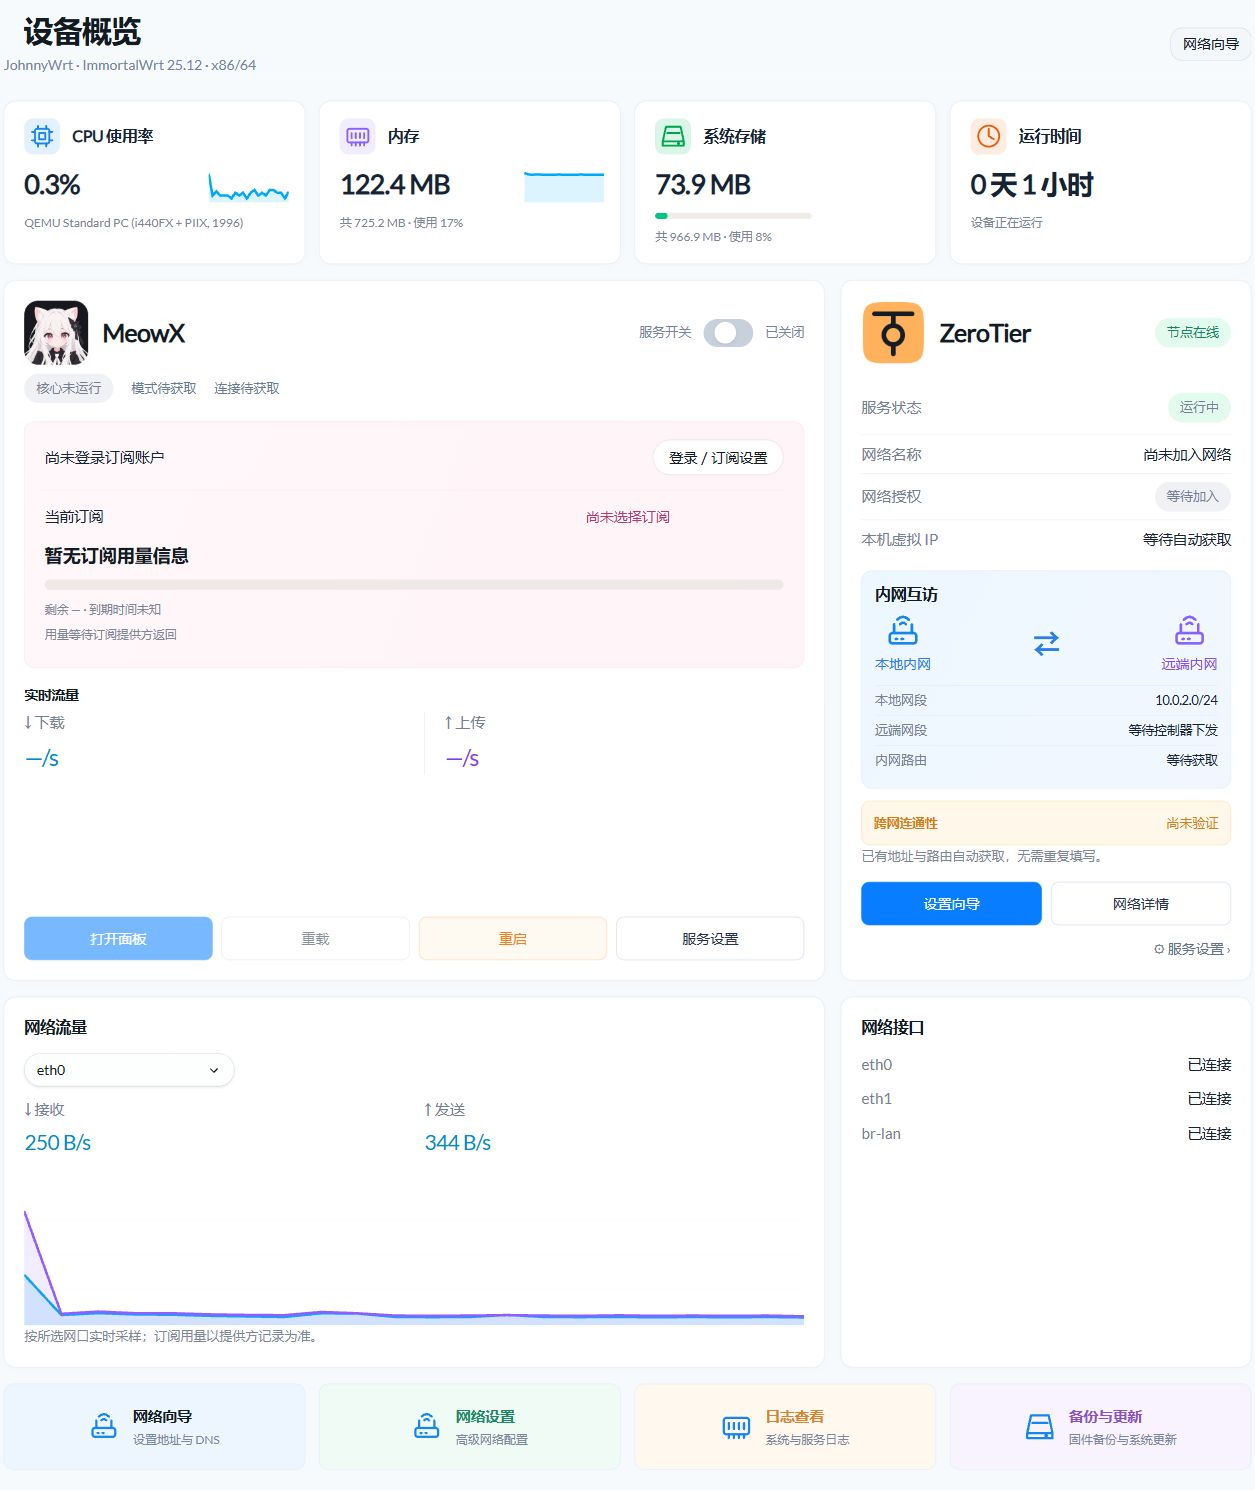
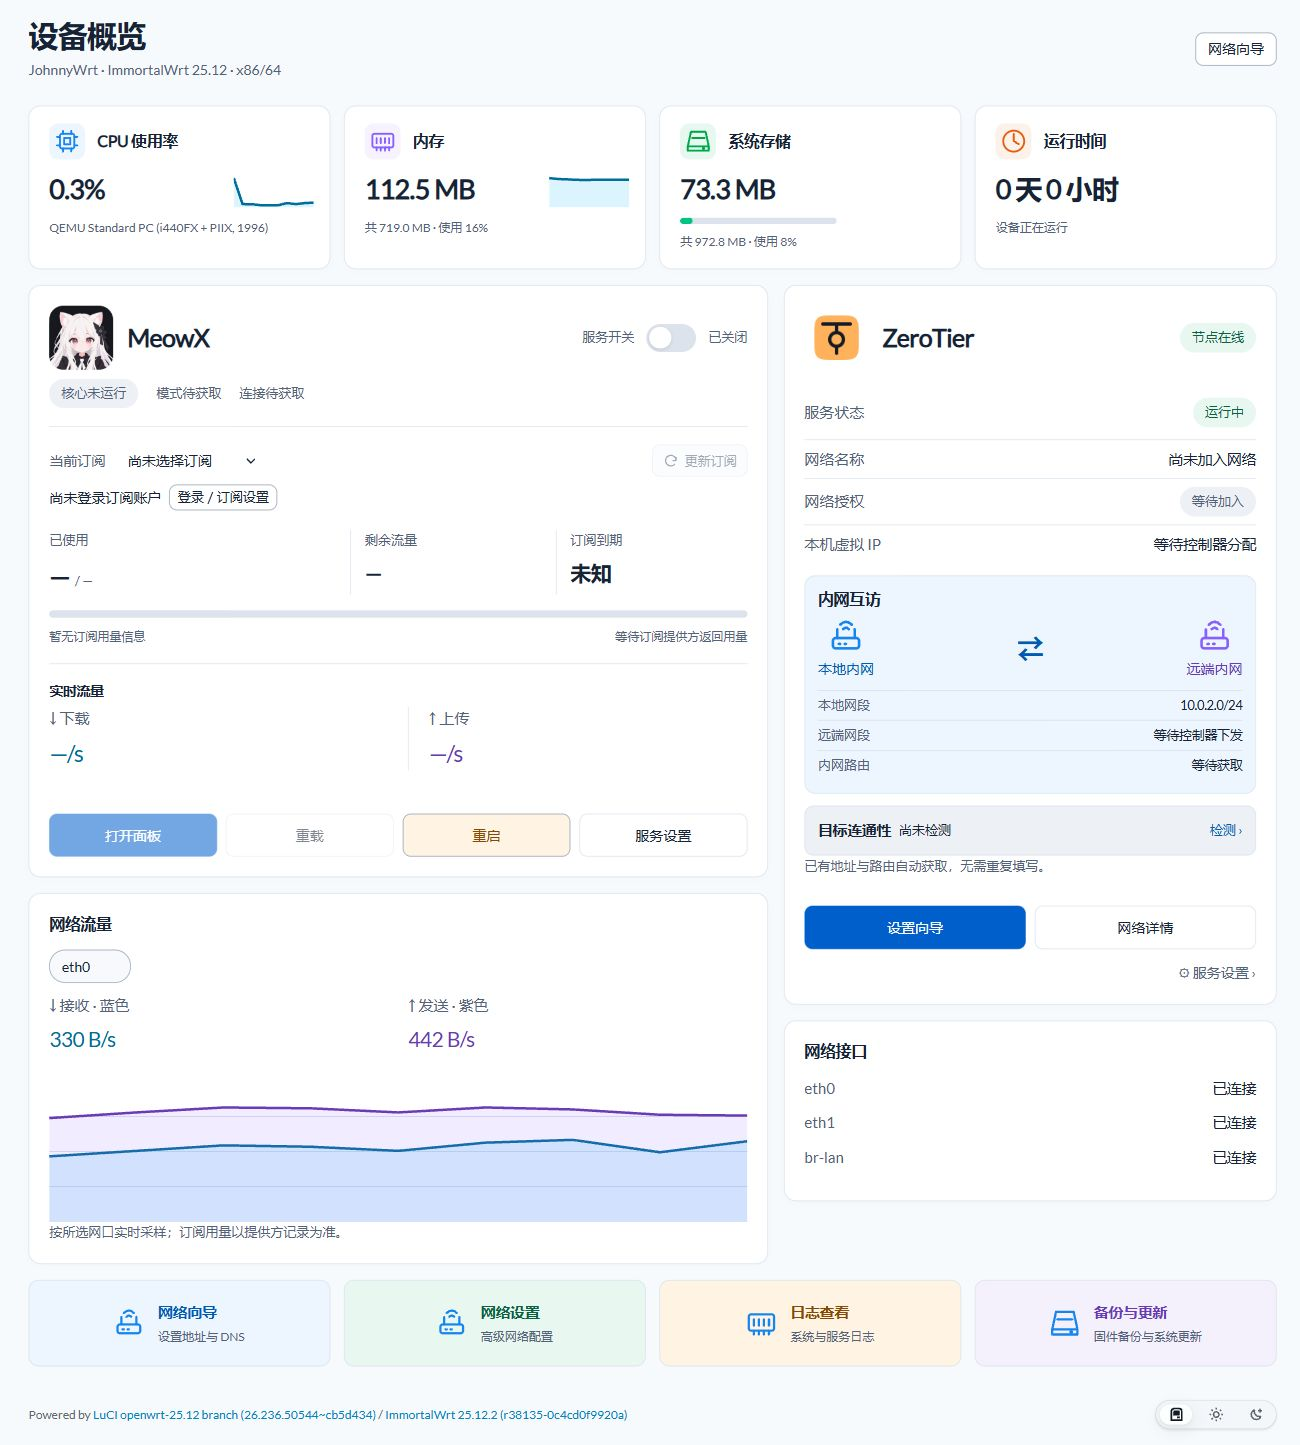
docs: refresh repository overview and release 10 screenshots

diff --git a/README.md b/README.md
@@ -1,19 +1,20 @@
 # JohnnyWrt
 
-基于 **ImmortalWrt 稳定版** 的 x86/64 固件，提供独立首页、主／旁路由网络向导、MeowX 与 ZeroTier。使用 GitHub Actions 构建，安装包与在线更新统一发布到本仓库。
+基于 **ImmortalWrt 稳定版** 的 x86/64 固件，把机器状态、MeowX 订阅与服务控制、ZeroTier 组网状态集中在独立首页。提供主／旁路由网络向导、ZeroTier 设置向导和统一主题设置，不依赖 iStore 或旧 QuickStart。使用 GitHub Actions 构建，安装包与在线更新统一发布到本仓库。
 
 [下载固件](https://github.com/Johnnnypro/JohnnyWrt/releases) · [构建记录](https://github.com/Johnnnypro/JohnnyWrt/actions) · [维护说明](MAINTENANCE.md)
 
 ## 页面效果
 
-以下为一次性测试机中的实际 LuCI 页面，使用 Aurora 主题。没有导入私人账户、订阅或组网资料；未配置的数据会显示待获取，不会伪造在线状态或用量。
+截图更新于 **2026-10-29**，来自 [25.12.2 · 1793253531（构建 #10）](https://github.com/Johnnnypro/JohnnyWrt/releases/tag/Johnnywrt-ISO-25.12.2-1793253531) 正式固件的一次性测试机，使用 Aurora 主题。没有导入私人账户、订阅或组网资料；未配置的数据显示待获取，不模拟在线状态或订阅用量。图中的地址仅属于隔离的测试网络。
 
 ### 独立首页
 
 ![JohnnyWrt 实际首页](docs/images/home.jpg)
 
 - 查看 CPU、内存、磁盘、运行时间、网口状态与实时流量。
-- MeowX 使用原插件的账户资料、头像和订阅用量；服务提供开启、关闭、重载、重启及面板入口。
+- MeowX 使用原插件的账户资料、头像和订阅用量；支持开启、关闭、重载、重启及打开面板。
+- 当前订阅旁提供“更新订阅”，同步更新订阅配置和提供方用量，并显示处理状态；长订阅名可展开查看。
 - 订阅已用、剩余与到期信息以服务端提供的数据为准，未提供的数据明确显示不可用。
 - ZeroTier 分别显示服务运行、节点在线、网络授权、分配地址和内网转发信息；在线不等于两地内网已完全连通。
 
@@ -34,9 +35,24 @@
 
 ![ZeroTier 实际设置向导](docs/images/zerotier.jpg)
 
-在“服务 → ZeroTier → 设置向导”填写网络 ID，然后自行打开授权面板授权。页面自动检查授权、节点和地址，兼容第三方控制器；控制器开启地址分配后，无需在此重复填写虚拟 IP。
+在“服务 → ZeroTier → 设置向导”填写网络 ID，然后自行打开授权面板授权。页面自动检查授权、节点和地址，兼容第三方控制器。新加入网络默认允许应用控制器下发的地址和路由；控制器开启地址分配后，无需在此重复填写虚拟 IP。已有网络若关闭了自动应用，会保留设置并明确提示。
+
+从首页 ZeroTier 卡片的“检测”入口进入向导，填写目标 IP 和 TCP 端口后可执行一次连通检测，并查看上次结果和时间。它不是持续在线监测，也不能代表两地内网已经双向互通；网络状态变化后需重新检测。
+
+<details>
+<summary>查看状态检查与目标连通性检测</summary>
+
+![ZeroTier 实际状态检查与目标连通性检测](docs/images/zerotier-check.jpg)
+
+</details>
 
 两地内网互访仍取决于控制器托管路由、两地不同的 LAN 网段、客户端网关与防火墙。本机提供 LAN 双向转发和限于直连 IPv4 LAN 的回包 NAT；向导显示检查结果，不把“已加入网络”当作完整连通证明。原生配置、接口信息页面保留。
+
+### 统一主题设置
+
+![JohnnyWrt 实际主题设置](docs/images/theme.jpg)
+
+在“系统 → 主题设置”选择已安装的 **Aurora、Argon、Bootstrap**，支持跟随系统、浅色与深色。选择 Argon 后可打开详细设置弹窗，调整颜色和登录背景。自定义 CSS 编辑与加载入口已移除。
 
 ## 下载与安装
 
@@ -53,8 +69,6 @@
 首次启动默认是旁路由：物理网口加入 LAN，通过上级 DHCP 获取管理地址，本机 DHCP 服务关闭。首次接入只连接一个网口到现有局域网，在上级租约中查找 `JohnnyWrt`。用户名 `root`，新装初始无密码，请先设置密码。
 
 SSH 或本地控制台输入 `quickstart`，菜单统一英文：1 查看当前地址，2 修改管理 IPv4、掩码、网关和 DNS，3 退出。掩码默认 255.255.255.0、DNS 默认 223.5.5.5，提示中显示默认值，直接回车采用；IP 和网关手动填写。输入后会展示预览，确认才保存；应用会断开当前连接，请按提示使用新地址重连。本控制台菜单确认后不自动回滚，改错地址可在本地控制台修正。它使用原生 UCI，不安装旧 QuickStart 服务；改为 DHCP 或配置复杂接口时使用网页网络设置。
-
-“系统 → 主题设置”保留 Aurora、Argon、Bootstrap 等已安装主题选择，并提供跟随系统、浅色、深色。选择 Argon 后可打开详细设置弹窗。已移除自定义 CSS 编辑与加载入口。
 
 ## 保留配置与在线更新
 
